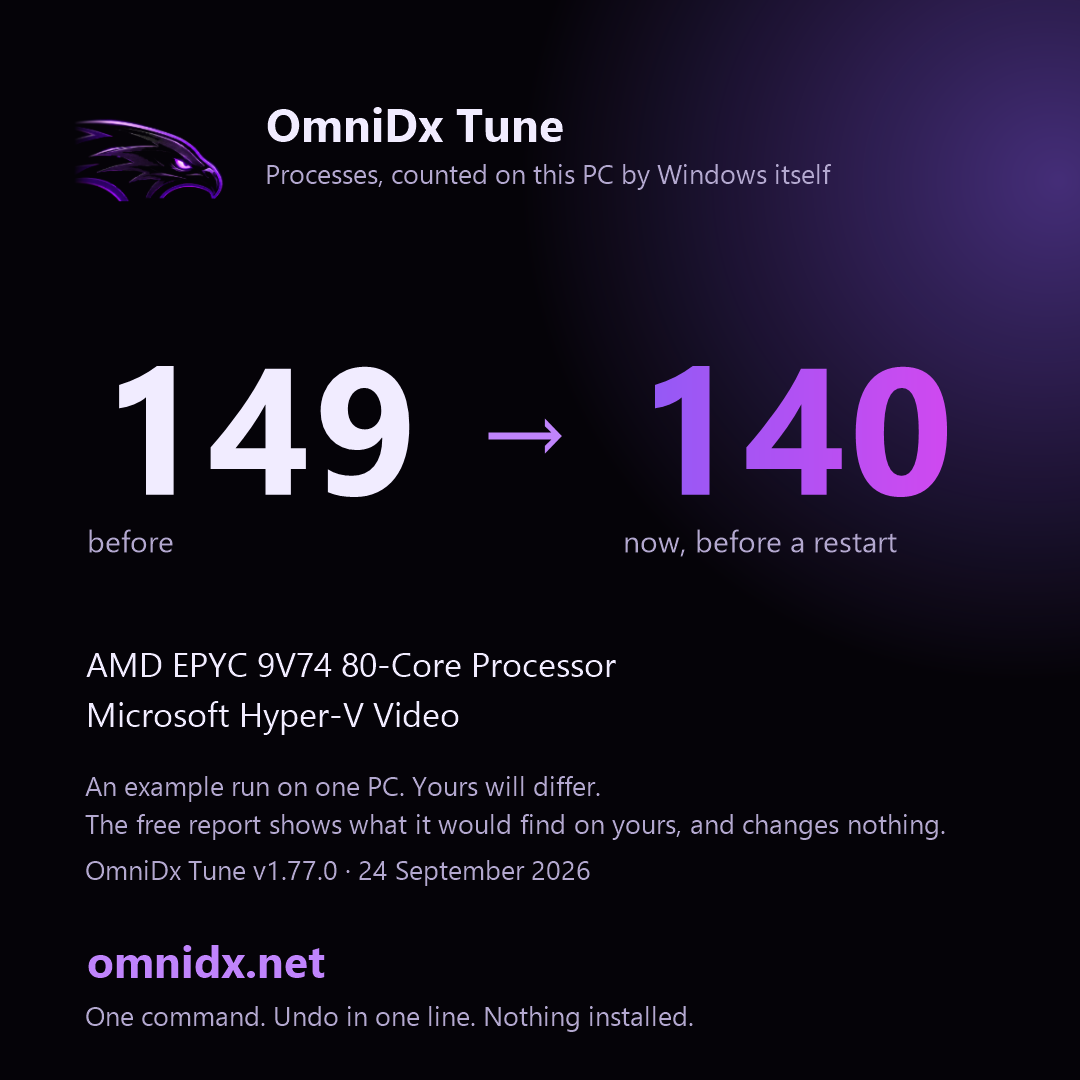
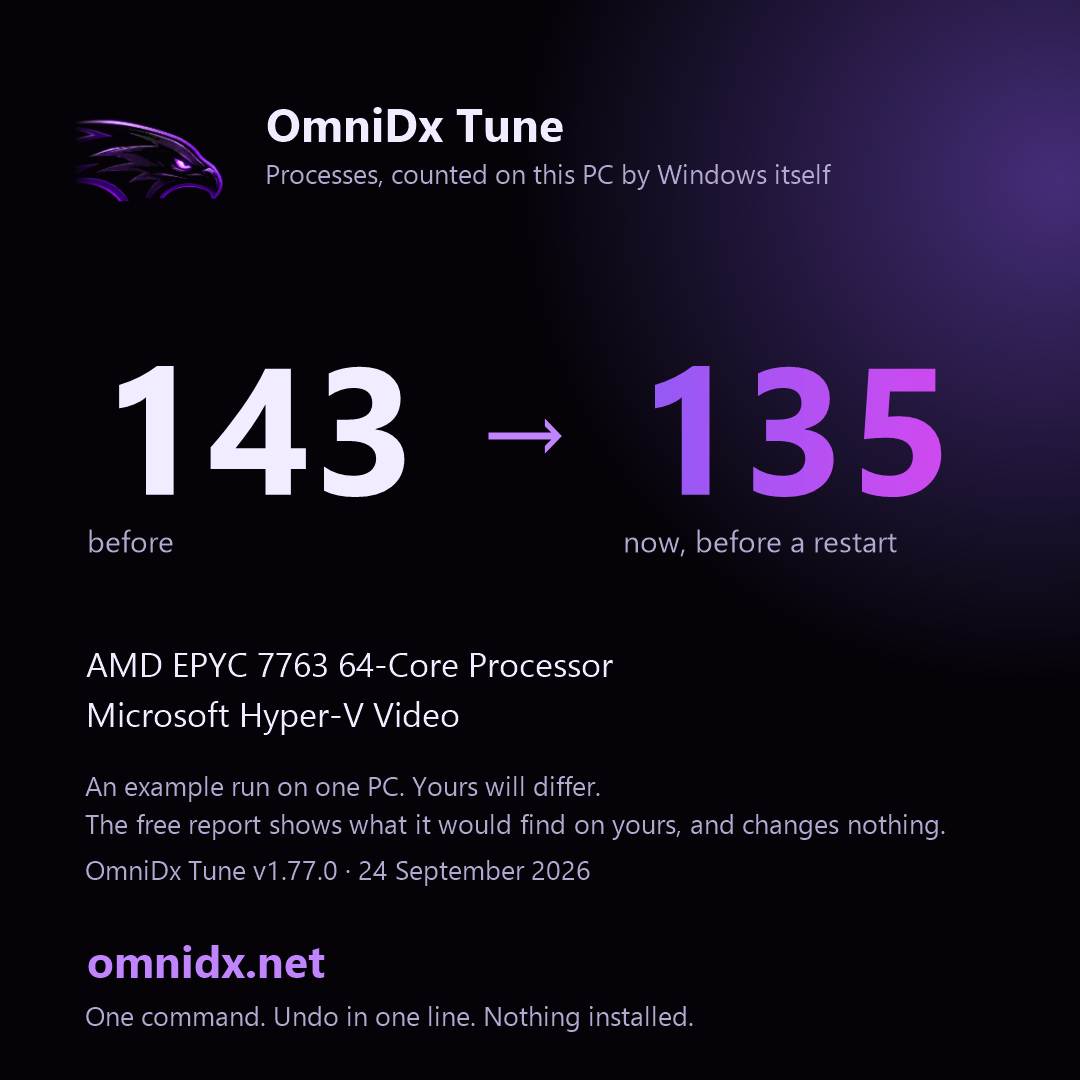
Windows check: the app window, the numbers, the log, and the script this run verified

Changed region(s): [[0.6722, 0.3361, 0.8861, 0.4583], [0.2444, 0.5806, 0.5806, 0.6417], [0.275, 0.3361, 0.3972, 0.4583]]

diff --git a/studio/assets/ci-report.html b/studio/assets/ci-report.html
@@ -1,5 +1,5 @@
 <!doctype html><html lang="en"><head><meta charset="utf-8"><meta name="viewport" content="width=device-width,initial-scale=1">
-<title>OmniDx Tune report - 2026-09-24_22-27-24</title>
+<title>OmniDx Tune report - 2026-09-24_23-53-26</title>
 <style>
 body{margin:0;background:#050308;color:#f1ecff;font:15px/1.6 -apple-system,'Segoe UI',Roboto,system-ui,sans-serif}
 main{max-width:860px;margin:0 auto;padding:36px 20px 80px}
@@ -18,100 +18,96 @@ details pre{font:12.5px/1.5 ui-monospace,Consolas,monospace;color:#b3a8cf;overfl
 .bios ul{list-style:none;padding-left:2px}.bios li{margin:8px 0;color:#f1ecff}.bios{background:#0e0a17;border:1px solid #2a1f45;border-radius:14px;padding:6px 18px}
 </style></head><body><main>
 <h1><img src="https://omnidx.net/studio/assets/icons/icon-192.png" alt="" width="44" height="44" style="vertical-align:middle;margin-right:10px" onerror="this.remove()">OmniDx Tune <span class="muted" style="font-size:16px">v1.77.0</span></h1>
-<p class="sub">Thursday, September 24, 2026 10:28 PM &middot; AMD EPYC 9V74 80-Core Processor &middot; Microsoft Hyper-V Video &middot; 16 GB &middot; Microsoft Corporation Virtual Machine</p>
-<div class="big"><div><b>149</b><span>processes before</span></div><div><b>140</b><span>now, before a restart</span></div><div><b>~75</b><span>target for this PC after a restart</span></div></div>
+<p class="sub">Thursday, September 24, 2026 11:54 PM &middot; AMD EPYC 7763 64-Core Processor &middot; Microsoft Hyper-V Video &middot; 16 GB &middot; Microsoft Corporation Virtual Machine</p>
+<div class="big"><div><b>143</b><span>processes before</span></div><div><b>135</b><span>now, before a restart</span></div><div><b>~75</b><span>target for this PC after a restart</span></div></div>
 <p class='muted'>The card, for posting (the same numbers, on one picture): <code>ci-card.png</code></p><img src='ci-card.png' alt='Before and after, on a card' style='max-width:340px;width:100%;border-radius:14px;border:1px solid #2a1f45'>
 <p class="muted">Many of the "now" processes are only waiting to be stopped. The number after a restart is the one that counts; <code>C:\OmniDx\after-restart.txt</code> gets it at your next sign-in. Kept cut: a task at each sign-in puts back what a Windows update turns on; undo removes it.</p>
 <h2>Next steps</h2><ol><li>Restart. The services told to stop are still unwinding until you do, and the after-restart count lands in C:\OmniDx\after-restart.txt at your next sign-in, with the boot time of that start next to the one from before the tune.</li><li>BIOS: items 1 to 3 (memory profile, Re-Size BAR, CSM). Ten minutes, and the memory profile alone is the biggest free gain any PC has.</li><li>GPU control panel: low latency mode, power management and V-Sync, from the list below. Two minutes.</li><li>Launchers and overlays: the list below names the one or two settings in each that matter; the overlays are the usual cause of a stutter that &quot;came from nowhere&quot;.</li><li>Any time: $env:OMNIDX_MODE=&#39;status&#39;; irm omnidx.net/go.ps1 | iex shows what is still in place; undo is one line, and it is in this report.</li></ol>
-<h2>Before and after</h2><table><tr><th></th><th>Before</th><th>Now</th></tr><tr><td>Processes</td><td>149</td><td>140</td></tr><tr><td>Threads</td><td>1511</td><td>1449</td></tr><tr><td>Handles</td><td>49606</td><td>47464</td></tr><tr><td>Memory in use</td><td>2829 MB</td><td>2942 MB</td></tr><tr><td>Idle CPU</td><td>0.6%</td><td>0.4%</td></tr><tr><td>DPC time</td><td>0%</td><td>0%</td></tr></table>
+<h2>Before and after</h2><table><tr><th></th><th>Before</th><th>Now</th></tr><tr><td>Processes</td><td>143</td><td>135</td></tr><tr><td>Threads</td><td>1388</td><td>1412</td></tr><tr><td>Handles</td><td>48873</td><td>46711</td></tr><tr><td>Memory in use</td><td>2804 MB</td><td>3021 MB</td></tr><tr><td>Idle CPU</td><td>16.2%</td><td>1.5%</td></tr><tr><td>DPC time</td><td>0.39%</td><td>0%</td></tr></table>
 <h2>Gone, by name</h2><p class='muted'>Running before, not running now: spoolsv</p>
-<details><summary>Every process, before (57 names)</summary><pre>svchost                                  x81     1,190 MB
-conhost                                  x4         33 MB
-notepad                                  x3         89 MB
-taskhostw                                x3         64 MB
-WmiPrvSE                                 x3         63 MB
+<details><summary>Every process, before (54 names)</summary><pre>svchost                                  x78     1,160 MB
+conhost                                  x4         34 MB
+notepad                                  x3         88 MB
+taskhostw                                x3         92 MB
+WmiPrvSE                                 x3         73 MB
 csrss                                    x2         14 MB
 fontdrvhost                              x2         11 MB
 SMSvcHost                                x2         50 MB
-AzureArcSysTray                          x1         19 MB
-ctfmon                                   x1         26 MB
-DefenderSessionHelper                    x1          6 MB
+AzureArcSysTray                          x1         20 MB
+ctfmon                                   x1         31 MB
 dockerd                                  x1         46 MB
-dwm                                      x1         78 MB
-explorer                                 x1        162 MB
-hosted-compute-agent                     x1         21 MB
+dwm                                      x1         77 MB
+explorer                                 x1        159 MB
+hosted-compute-agent                     x1         17 MB
 Idle                                     x1          0 MB
 LsaIso                                   x1          4 MB
 lsass                                    x1         31 MB
 MpDefenderCoreService                    x1         29 MB
 mqsvc                                    x1         19 MB
 msdtc                                    x1         14 MB
-MsMpEng                                  x1        162 MB
-node                                     x1         43 MB
+MsMpEng                                  x1         84 MB
+node                                     x1         44 MB
 OpenConsole                              x1         14 MB
 powershell                               x1        163 MB
-provjobd.exe1234404568                   x1         36 MB
-Registry                                 x1         65 MB
-Runner.Listener                          x1         72 MB
-Runner.Worker                            x1        101 MB
-RuntimeBroker                            x1         43 MB
-SearchHost                               x1        108 MB
+provjobd.exe33251920                     x1         21 MB
+Registry                                 x1         31 MB
+Runner.Listener                          x1         71 MB
+Runner.Worker                            x1        100 MB
+RuntimeBroker                            x1         47 MB
+SearchHost                               x1        109 MB
 Secure System                            x1         52 MB
 SecurityHealthService                    x1         12 MB
 ServiceFabricLocalClusterManager         x1         36 MB
-services                                 x1         11 MB
+services                                 x1         12 MB
 ShellHost                                x1         42 MB
-sihost                                   x1         43 MB
-smartscreen                              x1         12 MB
+sihost                                   x1         42 MB
 smss                                     x1          2 MB
 spoolsv                                  x1         22 MB
 sqlwriter                                x1         11 MB
 sshd                                     x1          9 MB
 StartMenuExperienceHost                  x1        130 MB
 System                                   x1          0 MB
-SystemPropertiesPerformance              x1         14 MB
-TiWorker                                 x1         31 MB
+TiWorker                                 x1         34 MB
 TrustedInstaller                         x1         10 MB
+UserOOBEBroker                           x1         11 MB
 vmcompute                                x1         11 MB
 vmms                                     x1         34 MB
-WaAppAgent                               x1         83 MB
+WaAppAgent                               x1         86 MB
 WaSecAgentProv                           x1          5 MB
-WindowsAzureGuestAgent                   x1         65 MB
+WindowsAzureGuestAgent                   x1         70 MB
 WindowsTerminal                          x1         85 MB
 wininit                                  x1          9 MB
 winlogon                                 x1         13 MB
-wslservice                               x1         27 MB
-WUDFHost                                 x1         12 MB</pre></details><details><summary>Every process, after (57 names)</summary><pre>svchost                                  x72     1,091 MB
-conhost                                  x4         33 MB
+wslservice                               x1         29 MB</pre></details><details><summary>Every process, after (54 names)</summary><pre>svchost                                  x70     1,037 MB
+conhost                                  x4         34 MB
 notepad                                  x3         88 MB
-taskhostw                                x3         58 MB
-WmiPrvSE                                 x3         68 MB
+taskhostw                                x3         91 MB
+WmiPrvSE                                 x3         78 MB
 csrss                                    x2         14 MB
 fontdrvhost                              x2         11 MB
 SMSvcHost                                x2         50 MB
-AzureArcSysTray                          x1         19 MB
-ctfmon                                   x1         26 MB
-DefenderSessionHelper                    x1          6 MB
+AzureArcSysTray                          x1         20 MB
+ctfmon                                   x1         31 MB
 dllhost                                  x1         13 MB
 dockerd                                  x1         46 MB
 dwm                                      x1         78 MB
-explorer                                 x1        162 MB
-hosted-compute-agent                     x1         21 MB
+explorer                                 x1        159 MB
+hosted-compute-agent                     x1         16 MB
 Idle                                     x1          0 MB
 LsaIso                                   x1          4 MB
 lsass                                    x1         31 MB
 MpDefenderCoreService                    x1         29 MB
 mqsvc                                    x1         19 MB
 msdtc                                    x1         14 MB
-MsMpEng                                  x1        162 MB
-node                                     x1         41 MB
+MsMpEng                                  x1         81 MB
+node                                     x1         43 MB
 OpenConsole                              x1         14 MB
-powershell                               x1        203 MB
-provjobd.exe1234404568                   x1         35 MB
+powershell                               x1        214 MB
+provjobd.exe33251920                     x1         21 MB
 Registry                                 x1         64 MB
 Runner.Listener                          x1         70 MB
-Runner.Worker                            x1         99 MB
-RuntimeBroker                            x1         43 MB
+Runner.Worker                            x1         97 MB
+RuntimeBroker                            x1         47 MB
 SearchHost                               x1        109 MB
 Secure System                            x1         52 MB
 SecurityHealthService                    x1         12 MB
@@ -119,25 +115,23 @@ ServiceFabricLocalClusterManager         x1         36 MB
 services                                 x1         11 MB
 ShellHost                                x1         42 MB
 sihost                                   x1         43 MB
-smartscreen                              x1         12 MB
 smss                                     x1          2 MB
 sqlwriter                                x1         11 MB
 sshd                                     x1          9 MB
 StartMenuExperienceHost                  x1        131 MB
 System                                   x1          0 MB
-SystemPropertiesPerformance              x1         14 MB
-TiWorker                                 x1         40 MB
+TiWorker                                 x1         42 MB
 TrustedInstaller                         x1         10 MB
+UserOOBEBroker                           x1         11 MB
 vmcompute                                x1         11 MB
 vmms                                     x1         34 MB
-WaAppAgent                               x1         83 MB
+WaAppAgent                               x1         86 MB
 WaSecAgentProv                           x1          5 MB
-WindowsAzureGuestAgent                   x1         65 MB
+WindowsAzureGuestAgent                   x1         70 MB
 WindowsTerminal                          x1         85 MB
 wininit                                  x1          9 MB
 winlogon                                 x1         13 MB
-wslservice                               x1         27 MB
-WUDFHost                                 x1         12 MB</pre></details>
+wslservice                               x1         29 MB</pre></details>
 <h2>Kept, and why</h2><ul><li>Defender, the firewall, Windows Update, audio, networking: always</li><li>Themes: Windows 10 falls back to the classic look without it</li><li>vmicguestinterface: this is a virtual machine</li><li>vmicheartbeat: this is a virtual machine</li><li>vmickvpexchange: this is a virtual machine</li><li>vmicrdv: this is a virtual machine</li><li>vmicshutdown: this is a virtual machine</li><li>vmictimesync: this is a virtual machine</li><li>vmicvmsession: this is a virtual machine</li><li>vmicvss: this is a virtual machine</li><li>XblAuthManager: Game Pass, the Xbox app or Minecraft is installed</li></ul>
 <h2>Warnings (3)</h2><div class="warn"><ul><li>The GPU driver dates from Jun 2006. A current driver is worth more than most tweaks.</li><li>This looks like a virtual machine. The tune will run, but the numbers mean little here.</li><li>Could not make a restore point (This functionality is not supported on this operating system.). The undo script still records everything.</li></ul></div>
 <h2>BIOS checklist for Microsoft Corporation Virtual Machine</h2><div class="bios"><ul><li>How to get in: restart, then press Del or F2 while the logo shows.</li><li>Where things are: the Advanced / Overclocking pages for memory, the PCI or Chipset page for Above 4G / Re-Size BAR, the Boot page for CSM, the Security page for TPM and Secure Boot.</li><li>1. Memory profile: enable EXPO (or DOCP / A-XMP on older boards). Your RAM is running at the slow default until you do; this is the single biggest free gain on any PC. Pick the profile matching the speed printed on the sticks.</li><li>2. Re-Size BAR / Smart Access Memory: set Above 4G Decoding = Enabled, then Re-Size BAR Support = Auto/Enabled. Needs CSM off (next line). Worth 5-15% in many games on RTX 30/40/50 and RX 6000+.</li><li>3. CSM (Compatibility Support Module): Disabled. You already boot UEFI, so nothing depends on it, and Re-Size BAR needs it off.</li><li>4. Secure Boot: Enabled. Windows 11 and Vanguard expect it; on 10 it costs nothing. Set OS Type / Secure Boot Mode to Windows UEFI if asked.</li><li>5. TPM: not detected. Enable AMD fTPM (AMD) or Intel PTT (Intel) under Security / Trusted Computing. VALORANT on Windows 11 will not run without it.</li><li>6. Precision Boost Overdrive: Enabled (or Advanced with the Curve Optimizer at a modest negative offset like -15 all-core if you know your cooler). Never a positive voltage offset.</li><li>7. Global C-states / package C-states: Auto is fine. Disabling them buys nothing measurable in games and raises idle heat.</li><li>8. Fast Boot: Enabled. Full Screen Logo / Boot Logo: Disabled (a second off every boot).</li><li>9. Fan curves: set the CPU fan to reach 100% by 80 C and the case fans to a steady ramp. Sustained boost needs airflow more than anything.</li><li>10. Onboard devices you do not use: serial port, Wi-Fi/Bluetooth if wired, onboard audio if you use USB audio, RGB controllers. Each one removed is an interrupt source gone.</li><li>11. HPET: leave at default. The &#39;disable HPET&#39; tweak is from 2013 and hurts more than it helps on modern Windows.</li><li>12. Virtualisation (SVM / VT-x): leave on if you use WSL, Docker, an emulator, or play VALORANT or on FACEIT (their anti-cheat needs it, with IOMMU); otherwise off saves a little scheduling overhead.</li><li>After saving: Windows will boot normally. If it does not (rare, usually CSM), go back in and re-enable the last thing you changed.</li><li>Do not update the BIOS unless the vendor&#39;s notes mention a fix for your exact problem; a failed flash is the one thing here that cannot be undone from Windows.</li></ul></div>
@@ -146,8 +140,8 @@ WUDFHost                                 x1         12 MB</pre></details>
 <h2>Launchers, overlays and helper apps</h2><ul><li>Xbox app: Settings &gt; General &gt; &quot;Auto-start&quot; off (the entry the tune switched off), &quot;Show notifications&quot; off. Game Pass games install under C:\XboxGames and are already in the CPU-priority list where the game is listed.</li></ul>
 <h2>Left by other tools</h2><p class="muted">The tune changes none of these; it names them, with the way back.</p><ul><li>Nothing found: no other tool has left Defender, Windows Update, SmartScreen, User Account Control or the CPU mitigations switched off on this PC.</li></ul>
 <h2>Per game</h2><p class='muted'>Not found on this PC (the same profile applies if you install them): Fortnite, VALORANT, Counter-Strike 2, Marvel Rivals, Apex Legends, Call of Duty (Warzone / MW), Overwatch 2, Rainbow Six Siege, Rocket League, Minecraft, Roblox, League of Legends, GTA V / Online, Rust, Escape from Tarkov, PUBG, The Finals, Dota 2, Battlefield 6, Deadlock, Delta Force, ARC Raiders, Helldivers 2, Warframe, Destiny 2, Halo Infinite, Dead by Daylight, Hunt: Showdown 1896, War Thunder, World of Warcraft, Squad, Battlefield 2042, EA Sports FC 26, NBA 2K26, Palworld, Path of Exile 2, Diablo IV, Monster Hunter Wilds, Elden Ring / Nightreign, Cyberpunk 2077, Baldur&#39;s Gate 3, Star Citizen, DayZ, Arma Reforger, Hell Let Loose, Genshin Impact, Ready or Not, Final Fantasy XIV, STALKER 2, Sea of Thieves</p>
-<h2>What was done</h2><h4>Safety first</h4><div class='did'>Registry and service list backed up to C:\OmniDx\backup\2026-09-24_22-27-24</div><div class='did'>undo.ps1 written to C:\OmniDx\undo</div><h4>Startup apps</h4><div class='did'>off: AzureArcSetup</div><div class='did'>off: Service Fabric Local Cluster Manager (Startup folder)</div><h4>Services</h4><div class='did'>dmwappushservice -&gt; disabled  (telemetry push)</div><div class='did'>WerSvc -&gt; disabled  (error reporting)</div><div class='did'>wercplsupport -&gt; disabled  (error reporting)</div><div class='did'>PcaSvc -&gt; disabled  (compatibility assistant)</div><div class='did'>lfsvc -&gt; disabled  (geolocation)</div><div class='did'>RemoteRegistry -&gt; disabled  (remote registry)</div><div class='did'>WMPNetworkSvc -&gt; disabled  (media sharing)</div><div class='did'>TrkWks -&gt; disabled  (link tracking)</div><div class='did'>WalletService -&gt; disabled  (wallet)</div><div class='did'>wisvc -&gt; disabled  (insider program)</div><div class='did'>SEMgrSvc -&gt; disabled  (payments and NFC)</div><div class='did'>TapiSrv -&gt; disabled  (telephony)</div><div class='did'>SharedAccess -&gt; disabled  (internet connection sharing)</div><div class='did'>edgeupdate -&gt; manual  (Edge updater (runs on demand))</div><div class='did'>WbioSrvc -&gt; disabled  (biometrics)</div><div class='did'>SysMain already disabled; left that way</div><div class='did'>WSearch already disabled; left that way</div><div class='did'>Spooler -&gt; disabled  (print spooler)</div><div class='did'>bthserv -&gt; disabled  (bluetooth)</div><div class='did'>WlanSvc -&gt; disabled  (wi-fi)</div><div class='did'>CDPSvc -&gt; manual  (connected devices)</div><div class='did'>CDPUserSvc already disabled; left that way</div><div class='did'>OneSyncSvc already disabled; left that way</div><div class='did'>PimIndexMaintenanceSvc already disabled; left that way</div><div class='did'>UnistoreSvc already disabled; left that way</div><div class='did'>UserDataSvc already disabled; left that way</div><div class='did'>SSDPSRV already disabled; left that way</div><div class='did'>upnphost already disabled; left that way</div><div class='did'>DPS -&gt; manual  (diagnostic policy)</div><div class='did'>SCardSvr -&gt; disabled  (smart card)</div><div class='did'>ScDeviceEnum -&gt; disabled  (smart card)</div><div class='did'>CertPropSvc -&gt; disabled  (smart card)</div><div class='did'>iphlpsvc -&gt; manual  (ipv6 tunnels)</div><div class='did'>cbdhsvc -&gt; manual  (clipboard history)</div><div class='did'>WpnService -&gt; manual  (push notifications)</div><div class='did'>WpnUserService -&gt; manual  (push notifications)</div><div class='did'>SNMPTRAP -&gt; disabled  (SNMP traps)</div><div class='did'>workfolderssvc -&gt; disabled  (Work Folders sync)</div><h4>Scheduled tasks</h4><div class='did'>PcaPatchDbTask</div><div class='did'>CreateObjectTask</div><div class='did'>Device</div><div class='did'>Device User</div><div class='did'>LoginCheck</div><div class='did'>WindowsActionDialog</div><div class='did'>OobeDiscovery</div><div class='did'>Diagnostics</div><div class='did'>UsageDataFlushing</div><div class='did'>UsageDataReporting</div><div class='did'>Registration</div><div class='did'>IndexerAutomaticMaintenance</div><div class='did'>Storage Tiers Management Initialization</div><div class='did'>UPnPHostConfig</div><div class='did'>ResolutionHost</div><div class='did'>UpdateLibrary</div><div class='did'>Work Folders Logon Synchronization</div><div class='did'>Work Folders Maintenance Work</div><h4>Preinstalled apps</h4><div class='did'>Microsoft.WindowsFeedbackHub</div><h4>Debloat</h4><div class='did'>removed Steps Recorder (screenshots every click, retired by Microsoft)</div><div class='did'>removed the 2009 Windows Media Player (the Store one stays)</div><div class='did'>removed Math Input Panel</div><div class='did'>removed Internet Explorer 11</div><div class='did'>off: Work Folders (corporate sync)</div><div class='did'>Edge: shopping assistant, recommendations, Spotlight, feedback prompts and reporting off</div><div class='did'>Kept gone: consumer features, suggested apps, account nags and the &#39;finish setting up&#39; screen are off by policy</div><h4>Telemetry, background activity, the shell</h4><div class='did'>Telemetry, the advertising id, activity history, suggestions, Bing in Start, Recall and Edge&#39;s reporting off; background apps off; widgets, news, Copilot and Cortana off; Game DVR off, Game Mode on; the classic right-click menu on 11</div><h4>System tuning</h4><div class='did'>NTFS last-access stamps off</div><div class='did'>NTFS allowed more memory for its cache</div><div class='did'>Defender&#39;s scheduled scans already capped at 5% of the CPU, lower than the tune&#39;s 25%: left as it is</div><h4>The OmniDx power plan</h4><div class='did'>2 plan setting(s) this PC does not have were skipped.</div><div class='did'>OmniDx plan created and active: CPU 100/100, boost aggressive, energy preference on performance, no core parking, no throttle states on a desktop, PCIe, USB and Wi-Fi power saving off, no sleep on mains.</div><h4>Network</h4><div class='did'>TCP: autotuning normal, ECN and timestamps off, receive-side scaling on, segment coalescing off, CTCP.</div><div class='did'>Ethernet 3: Nagle off, power saving off</div><div class='did'>Ethernet 4: Interrupt Moderation off</div><div class='did'>Ethernet 4: Nagle off, power saving off</div><h4>Discord, Spotify, browsers</h4><div class='did'>Discord: hardware acceleration on; it still starts with Windows, as you chose</div><div class='did'>Spotify: hardware acceleration on, no auto-start, friend feed off</div><div class='did'>Chrome: no background mode, hardware acceleration on</div><div class='did'>Edge: no startup boost, no background mode, hardware acceleration on</div><h4>Game profiles</h4><div class='did'>No listed game found on the usual drives; the CPU-priority profiles are in place for when one is installed.</div><h4>Game settings files</h4><div class='did'>Fortnite: V-Sync off, motion blur off, shadows off, post-processing low</div><div class='did'>Apex Legends: V-Sync off, sun shadows off, spot shadows off</div><div class='did'>Rocket League: V-Sync off, motion blur off, dynamic shadows off, depth of field off</div><div class='did'>Minecraft (Java): V-Sync off</div><h4>Cleanup</h4><div class='did'>Temp files, the Windows Update download cache and the peer-to-peer update cache cleared: about 305 MB back.</div><h4>Keeping it cut</h4><div class='did'>Task &#39;OmniDx keep&#39; runs three minutes after sign-in, puts back whatever an update turned on, notes that start&#39;s boot time and writes card-after-restart.png with that start&#39;s count. Log: C:\OmniDx\keep-log.txt. Undo removes it.</div>
-<h2>Undo</h2><p>Administrator PowerShell: <code>powershell -ExecutionPolicy Bypass -File C:\OmniDx\undo\undo.ps1</code><br>No restore point was made on this run (see the warnings); the undo script is the way back.<br>Changes recorded in <code>C:\OmniDx\undo\changes-2026-09-24_22-27-24.json</code>.</p>
+<h2>What was done</h2><h4>Safety first</h4><div class='did'>Registry and service list backed up to C:\OmniDx\backup\2026-09-24_23-53-26</div><div class='did'>undo.ps1 written to C:\OmniDx\undo</div><h4>Startup apps</h4><div class='did'>off: AzureArcSetup</div><div class='did'>off: Service Fabric Local Cluster Manager (Startup folder)</div><h4>Services</h4><div class='did'>dmwappushservice -&gt; disabled  (telemetry push)</div><div class='did'>WerSvc -&gt; disabled  (error reporting)</div><div class='did'>wercplsupport -&gt; disabled  (error reporting)</div><div class='did'>PcaSvc -&gt; disabled  (compatibility assistant)</div><div class='did'>lfsvc -&gt; disabled  (geolocation)</div><div class='did'>RemoteRegistry -&gt; disabled  (remote registry)</div><div class='did'>WMPNetworkSvc -&gt; disabled  (media sharing)</div><div class='did'>TrkWks -&gt; disabled  (link tracking)</div><div class='did'>WalletService -&gt; disabled  (wallet)</div><div class='did'>wisvc -&gt; disabled  (insider program)</div><div class='did'>SEMgrSvc -&gt; disabled  (payments and NFC)</div><div class='did'>TapiSrv -&gt; disabled  (telephony)</div><div class='did'>SharedAccess -&gt; disabled  (internet connection sharing)</div><div class='did'>edgeupdate -&gt; manual  (Edge updater (runs on demand))</div><div class='did'>WbioSrvc -&gt; disabled  (biometrics)</div><div class='did'>SysMain already disabled; left that way</div><div class='did'>WSearch already disabled; left that way</div><div class='did'>Spooler -&gt; disabled  (print spooler)</div><div class='did'>bthserv -&gt; disabled  (bluetooth)</div><div class='did'>WlanSvc -&gt; disabled  (wi-fi)</div><div class='did'>CDPSvc -&gt; manual  (connected devices)</div><div class='did'>CDPUserSvc already disabled; left that way</div><div class='did'>OneSyncSvc already disabled; left that way</div><div class='did'>PimIndexMaintenanceSvc already disabled; left that way</div><div class='did'>UnistoreSvc already disabled; left that way</div><div class='did'>UserDataSvc already disabled; left that way</div><div class='did'>SSDPSRV already disabled; left that way</div><div class='did'>upnphost already disabled; left that way</div><div class='did'>DPS -&gt; manual  (diagnostic policy)</div><div class='did'>SCardSvr -&gt; disabled  (smart card)</div><div class='did'>ScDeviceEnum -&gt; disabled  (smart card)</div><div class='did'>CertPropSvc -&gt; disabled  (smart card)</div><div class='did'>iphlpsvc -&gt; manual  (ipv6 tunnels)</div><div class='did'>cbdhsvc -&gt; manual  (clipboard history)</div><div class='did'>WpnService -&gt; manual  (push notifications)</div><div class='did'>WpnUserService -&gt; manual  (push notifications)</div><div class='did'>SNMPTRAP -&gt; disabled  (SNMP traps)</div><div class='did'>workfolderssvc -&gt; disabled  (Work Folders sync)</div><h4>Scheduled tasks</h4><div class='did'>PcaPatchDbTask</div><div class='did'>CreateObjectTask</div><div class='did'>Device</div><div class='did'>Device User</div><div class='did'>LoginCheck</div><div class='did'>WindowsActionDialog</div><div class='did'>OobeDiscovery</div><div class='did'>Diagnostics</div><div class='did'>UsageDataFlushing</div><div class='did'>UsageDataReporting</div><div class='did'>Registration</div><div class='did'>IndexerAutomaticMaintenance</div><div class='did'>Storage Tiers Management Initialization</div><div class='did'>UPnPHostConfig</div><div class='did'>ResolutionHost</div><div class='did'>UpdateLibrary</div><div class='did'>Work Folders Logon Synchronization</div><div class='did'>Work Folders Maintenance Work</div><h4>Preinstalled apps</h4><div class='did'>Microsoft.WindowsFeedbackHub</div><h4>Debloat</h4><div class='did'>removed Steps Recorder (screenshots every click, retired by Microsoft)</div><div class='did'>removed the 2009 Windows Media Player (the Store one stays)</div><div class='did'>removed Math Input Panel</div><div class='did'>removed Internet Explorer 11</div><div class='did'>off: Work Folders (corporate sync)</div><div class='did'>Edge: shopping assistant, recommendations, Spotlight, feedback prompts and reporting off</div><div class='did'>Kept gone: consumer features, suggested apps, account nags and the &#39;finish setting up&#39; screen are off by policy</div><h4>Telemetry, background activity, the shell</h4><div class='did'>Telemetry, the advertising id, activity history, suggestions, Bing in Start, Recall and Edge&#39;s reporting off; background apps off; widgets, news, Copilot and Cortana off; Game DVR off, Game Mode on; the classic right-click menu on 11</div><h4>System tuning</h4><div class='did'>NTFS last-access stamps off</div><div class='did'>NTFS allowed more memory for its cache</div><div class='did'>Defender&#39;s scheduled scans already capped at 5% of the CPU, lower than the tune&#39;s 25%: left as it is</div><h4>The OmniDx power plan</h4><div class='did'>2 plan setting(s) this PC does not have were skipped.</div><div class='did'>OmniDx plan created and active: CPU 100/100, boost aggressive, energy preference on performance, no core parking, no throttle states on a desktop, PCIe, USB and Wi-Fi power saving off, no sleep on mains.</div><h4>Network</h4><div class='did'>TCP: autotuning normal, ECN and timestamps off, receive-side scaling on, segment coalescing off, CTCP.</div><div class='did'>Ethernet 4: Interrupt Moderation off</div><div class='did'>Ethernet 4: Nagle off, power saving off</div><div class='did'>Ethernet 3: Nagle off, power saving off</div><h4>Discord, Spotify, browsers</h4><div class='did'>Discord: hardware acceleration on; it still starts with Windows, as you chose</div><div class='did'>Spotify: hardware acceleration on, no auto-start, friend feed off</div><div class='did'>Chrome: no background mode, hardware acceleration on</div><div class='did'>Edge: no startup boost, no background mode, hardware acceleration on</div><h4>Game profiles</h4><div class='did'>No listed game found on the usual drives; the CPU-priority profiles are in place for when one is installed.</div><h4>Game settings files</h4><div class='did'>Fortnite: V-Sync off, motion blur off, shadows off, post-processing low</div><div class='did'>Apex Legends: V-Sync off, sun shadows off, spot shadows off</div><div class='did'>Rocket League: V-Sync off, motion blur off, dynamic shadows off, depth of field off</div><div class='did'>Minecraft (Java): V-Sync off</div><h4>Cleanup</h4><div class='did'>Temp files, the Windows Update download cache and the peer-to-peer update cache cleared: about 374 MB back.</div><h4>Keeping it cut</h4><div class='did'>Task &#39;OmniDx keep&#39; runs three minutes after sign-in, puts back whatever an update turned on, notes that start&#39;s boot time and writes card-after-restart.png with that start&#39;s count. Log: C:\OmniDx\keep-log.txt. Undo removes it.</div>
+<h2>Undo</h2><p>Administrator PowerShell: <code>powershell -ExecutionPolicy Bypass -File C:\OmniDx\undo\undo.ps1</code><br>No restore point was made on this run (see the warnings); the undo script is the way back.<br>Changes recorded in <code>C:\OmniDx\undo\changes-2026-09-24_23-53-26.json</code>.</p>
 <h2>Status, any time</h2><p>What is still in place, what an update put back, the keep task and the after-restart count: <code>$env:OMNIDX_MODE='status'; irm omnidx.net/go.ps1 | iex</code><br><span class="muted">README.txt in C:\OmniDx says what each file there is.</span></p>
 <p class="muted" style="margin-top:40px">omnidx.net &middot; one payment, one PC, undo in one line.</p>
 </main></body></html>
